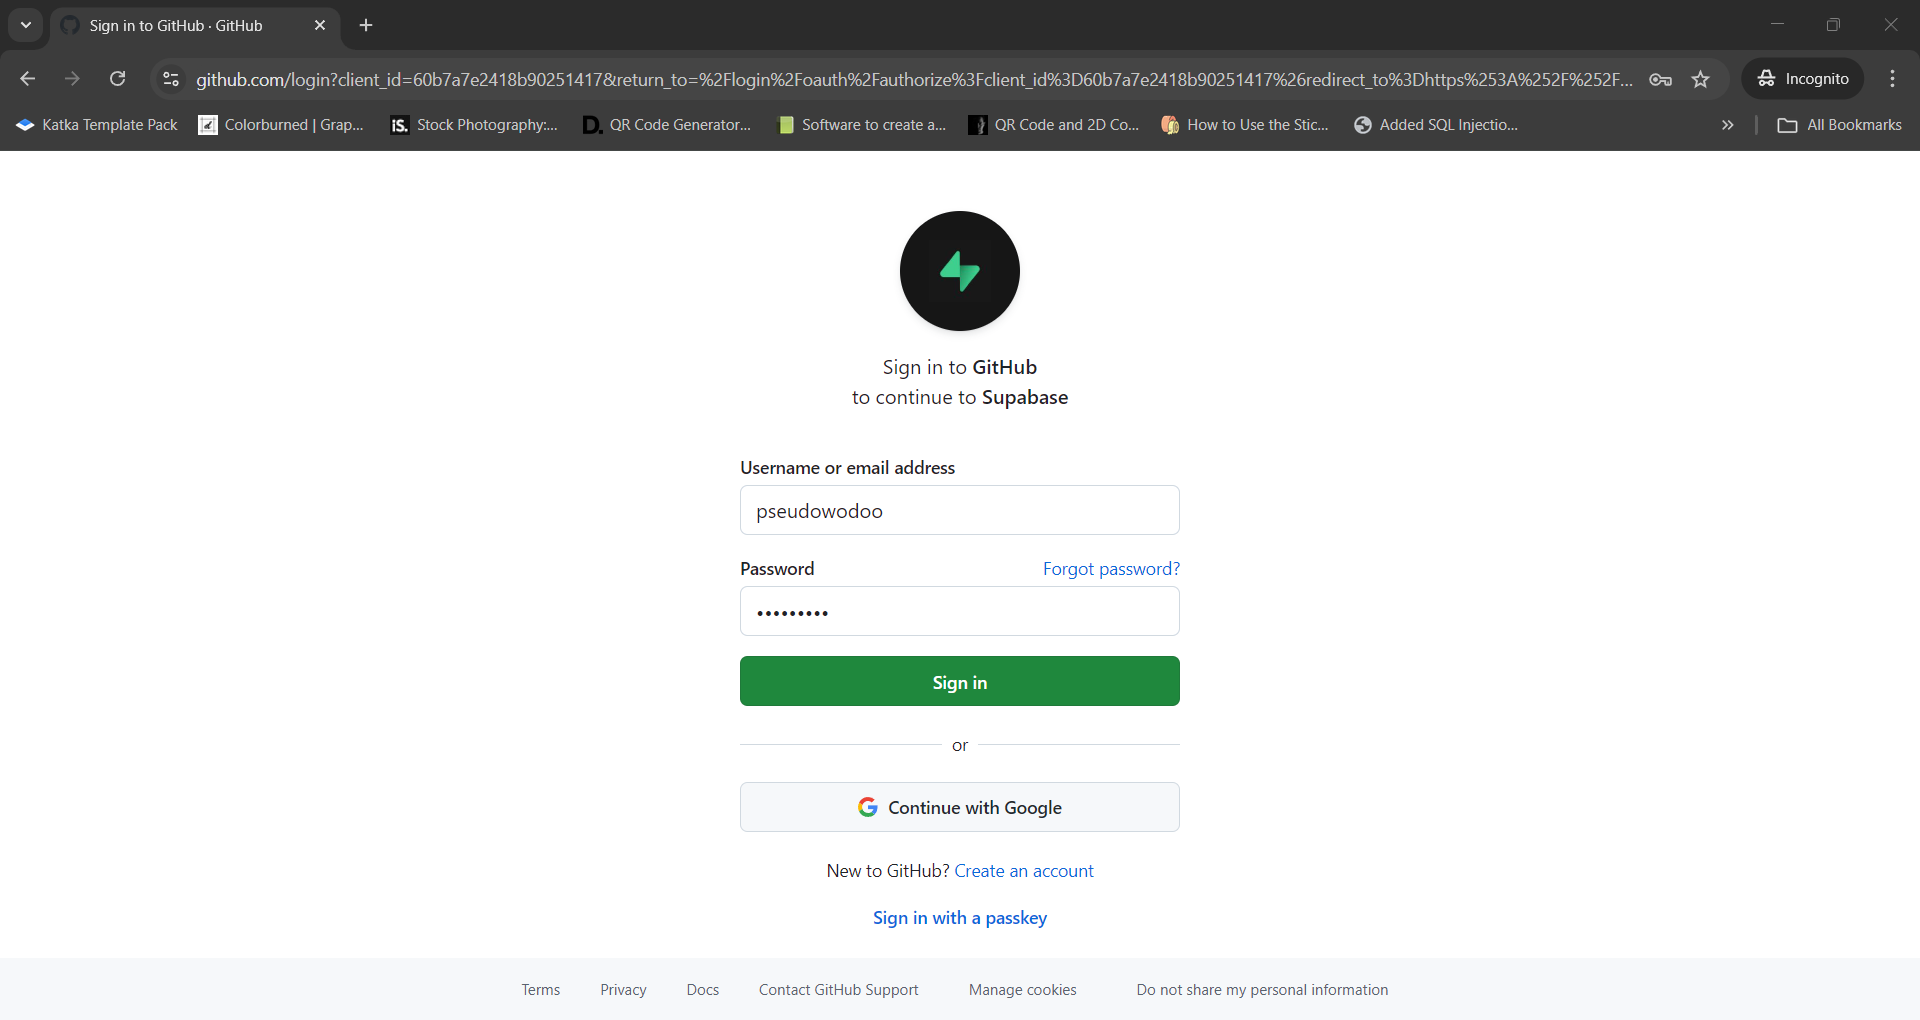
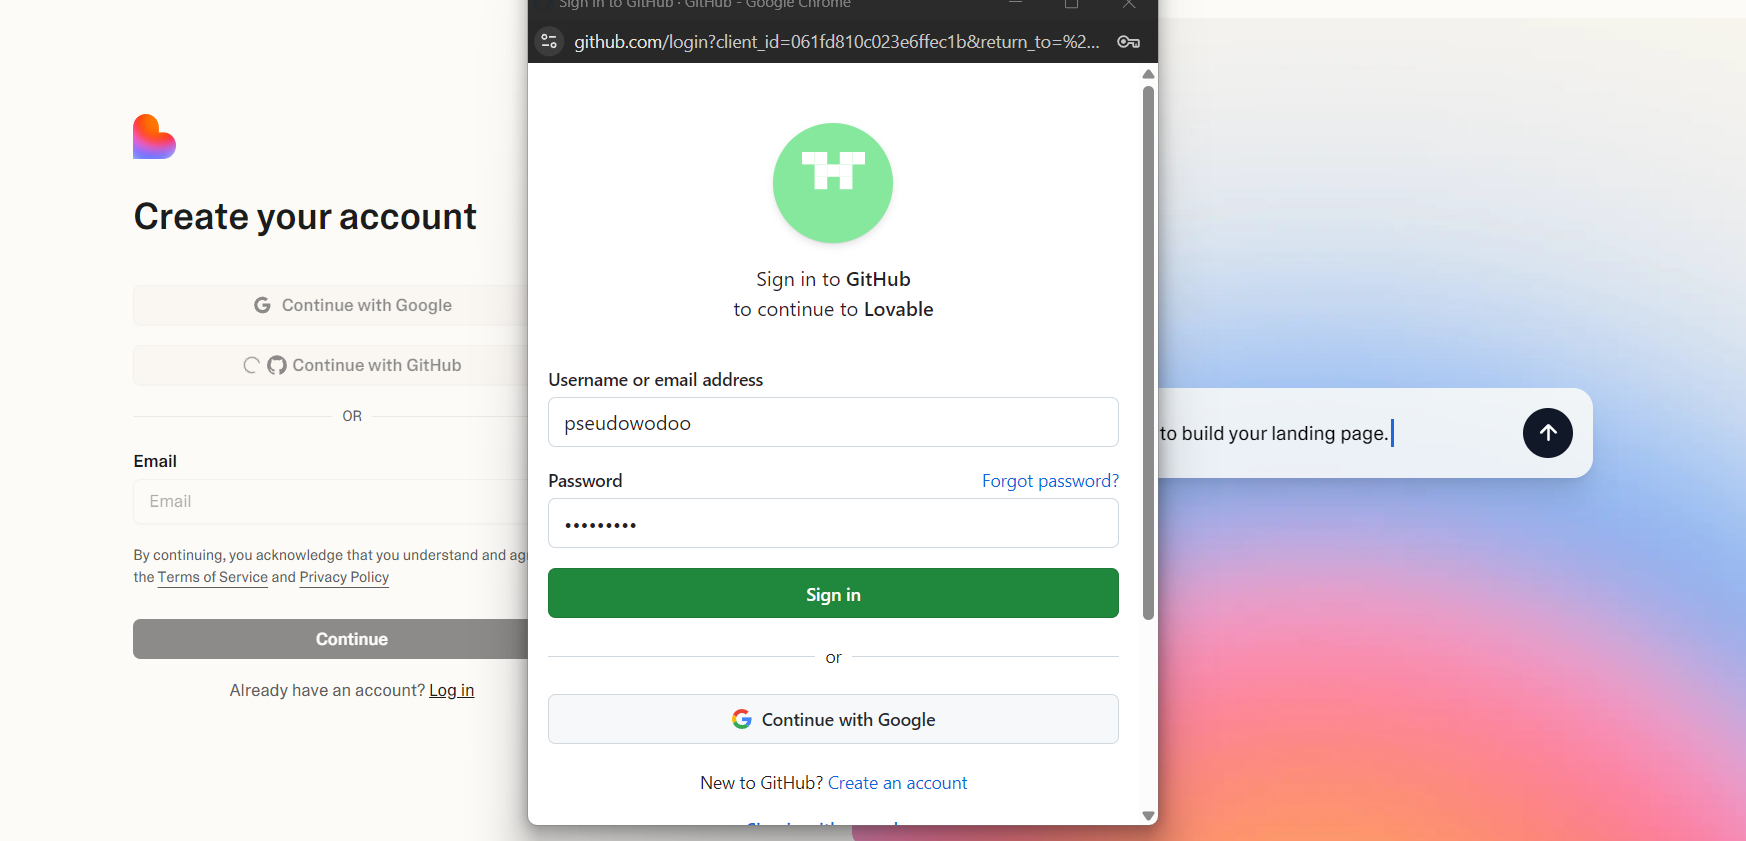
GITBOOK-14: No subject

diff --git a/pre-work-to-be-completed-before-programme/tooling-and-software/supabase.md b/pre-work-to-be-completed-before-programme/tooling-and-software/supabase.md
@@ -12,20 +12,20 @@ icon: database
 
 #### 1. Go to [https://dashboard.render.com](https://supabase.com/dashboard/sign-up) and click on Continue with GitHub.&#x20;
 
-<figure><img src="../../.gitbook/assets/image.png" alt=""><figcaption></figcaption></figure>
+<figure><img src="../../.gitbook/assets/image (3).png" alt=""><figcaption></figcaption></figure>
 
 2. **Login with your GitHub credentials**
 
-<figure><img src="../../.gitbook/assets/image (1).png" alt=""><figcaption></figcaption></figure>
+<figure><img src="../../.gitbook/assets/image (4).png" alt=""><figcaption></figcaption></figure>
 
 3. **You may be asked to verify your account details with an OTP. Follow the instructions**
 4. **Next Authorize Supabase**
 
-<figure><img src="../../.gitbook/assets/image (2).png" alt=""><figcaption></figcaption></figure>
+<figure><img src="../../.gitbook/assets/image (5).png" alt=""><figcaption></figcaption></figure>
 
 5. **Create a new Organization or Team name. An arbitrary name will suffice. Leave the other settings as Personal and Free**
 
-<figure><img src="../../.gitbook/assets/image (3).png" alt=""><figcaption></figcaption></figure>
+<figure><img src="../../.gitbook/assets/image (6).png" alt=""><figcaption></figcaption></figure>
 
 6. **Create a Project** \
    a. Give the project a name\
@@ -34,7 +34,7 @@ icon: database
    Then Click on Create New Project.
 7. **You will now have a Blank Database ready to use for your project!**
 
-<figure><img src="../../.gitbook/assets/image (4).png" alt=""><figcaption></figcaption></figure>
+<figure><img src="../../.gitbook/assets/image (7).png" alt=""><figcaption></figcaption></figure>
 
 
 

diff --git a/pre-work-to-be-completed-before-programme/tooling-and-software/render/README.md b/pre-work-to-be-completed-before-programme/tooling-and-software/render/README.md
@@ -1,4 +1,5 @@
 ---
+hidden: true
 icon: database
 ---
 
@@ -36,15 +37,13 @@ icon: database
 
 <figure><img src="../../../.gitbook/assets/ren-7.avif" alt=""><figcaption><p>🎉 You now have a Render account!</p></figcaption></figure>
 
-
-
 {% hint style="info" %}
-Before the course, you are only expected to do up to Step #6 above - i.e., to setup your Render Account.&#x20;
+Before the course, you are only expected to do up to Step #6 above - i.e., to setup your Render Account.
 
-As you build your web app, you will need to select whether to build a static site vs. to build a web service on Render.&#x20;
+As you build your web app, you will need to select whether to build a static site vs. to build a web service on Render.
 
 * (i) For those who do not intend to build a backend: you will need to use a [**static site**](for-websites-without-backend-default-for-techup.md). (For TechUp participants by default)
-* (ii) For those who intend to build a backend: you will need to use [**web service**](for-websites-with-backend-for-advanced-learners.md). (For advanced learners)&#x20;
+* (ii) For those who intend to build a backend: you will need to use [**web service**](for-websites-with-backend-for-advanced-learners.md). (For advanced learners)
 
-We will get into these details during the course.&#x20;
+We will get into these details during the course.
 {% endhint %}

diff --git a/pre-work-to-be-completed-before-programme/tooling-and-software/loveable.md b/pre-work-to-be-completed-before-programme/tooling-and-software/loveable.md
@@ -1,0 +1,27 @@
+---
+icon: square-code
+---
+
+# Loveable
+
+{% hint style="warning" %}
+**Create a GitHub account first if you haven't already done so**. Instructions on how to create a GitHub account can be found on this page [GitHub](github.md)
+{% endhint %}
+
+### Creating a Loveable account
+
+#### 1. Go to [https://lovable.dev/signup](https://lovable.dev/signup) and click on Continue with GitHub.&#x20;
+
+<figure><img src="../../.gitbook/assets/image.png" alt=""><figcaption></figcaption></figure>
+
+2. Sign into your GitHub Account
+
+<figure><img src="../../.gitbook/assets/image (1).png" alt=""><figcaption></figcaption></figure>
+
+3. Go to [https://lovable.dev/?settings=supabase](https://lovable.dev/?settings=supabase) to Connect to setup integrations to GitHub and Supabase
+4. Click on Connect Supabase and follow the on screen instructions to connect to Supabase and similarly for GitHub as well. This is to facilitate your codebase to be stored into GitHub and allows your app to be connected to a Database.
+
+<figure><img src="../../.gitbook/assets/image (2).png" alt=""><figcaption></figcaption></figure>
+
+
+

diff --git a/pre-work-to-be-completed-before-programme/tooling-and-software/slack.md b/pre-work-to-be-completed-before-programme/tooling-and-software/slack.md
@@ -23,15 +23,15 @@ You should have already received the email invite to TechUp’s channels on Slac
 3. **Set up your 2FA with your preferred authentication app.**
 4. **Enter the 2FA code and click "Verify code and activiate"**
 
-<figure><img src="../../.gitbook/assets/image (5).png" alt=""><figcaption></figcaption></figure>
+<figure><img src="../../.gitbook/assets/image (5) (1).png" alt=""><figcaption></figcaption></figure>
 
 5. **At the above screen click on "Back to your Workspaces"**
 
-<figure><img src="../../.gitbook/assets/image (6).png" alt=""><figcaption></figcaption></figure>
+<figure><img src="../../.gitbook/assets/image (6) (1).png" alt=""><figcaption></figcaption></figure>
 
 6. **Click on Launch in Slack in the GVT04 External Workspace**
 
-<figure><img src="../../.gitbook/assets/image (7).png" alt=""><figcaption></figcaption></figure>
+<figure><img src="../../.gitbook/assets/image (7) (1).png" alt=""><figcaption></figcaption></figure>
 
 7. **You will now have access to #techup4, #techup-webapp-help**
 

diff --git a/SUMMARY.md b/SUMMARY.md
@@ -16,6 +16,7 @@
     * [For Websites without Backend (Default for TechUp)](pre-work-to-be-completed-before-programme/tooling-and-software/render/for-websites-without-backend-default-for-techup.md)
     * [For Websites with Backend (For Advanced Learners)](pre-work-to-be-completed-before-programme/tooling-and-software/render/for-websites-with-backend-for-advanced-learners.md)
   * [Supabase](pre-work-to-be-completed-before-programme/tooling-and-software/supabase.md)
+  * [Loveable](pre-work-to-be-completed-before-programme/tooling-and-software/loveable.md)
 * [🌎 \[Mandatory\] Readings on How the Internet Works](pre-work-to-be-completed-before-programme/mandatory-reading-on-how-the-internet-works.md)
 * [👾 Compulsory Pre-Readings](pre-work-to-be-completed-before-programme/mandatory-course-udemy.md)
 * [👾 \[Superseded\] Mandatory Course (Udemy)](pre-work-to-be-completed-before-programme/mandatory-course-udemy-1.md)
